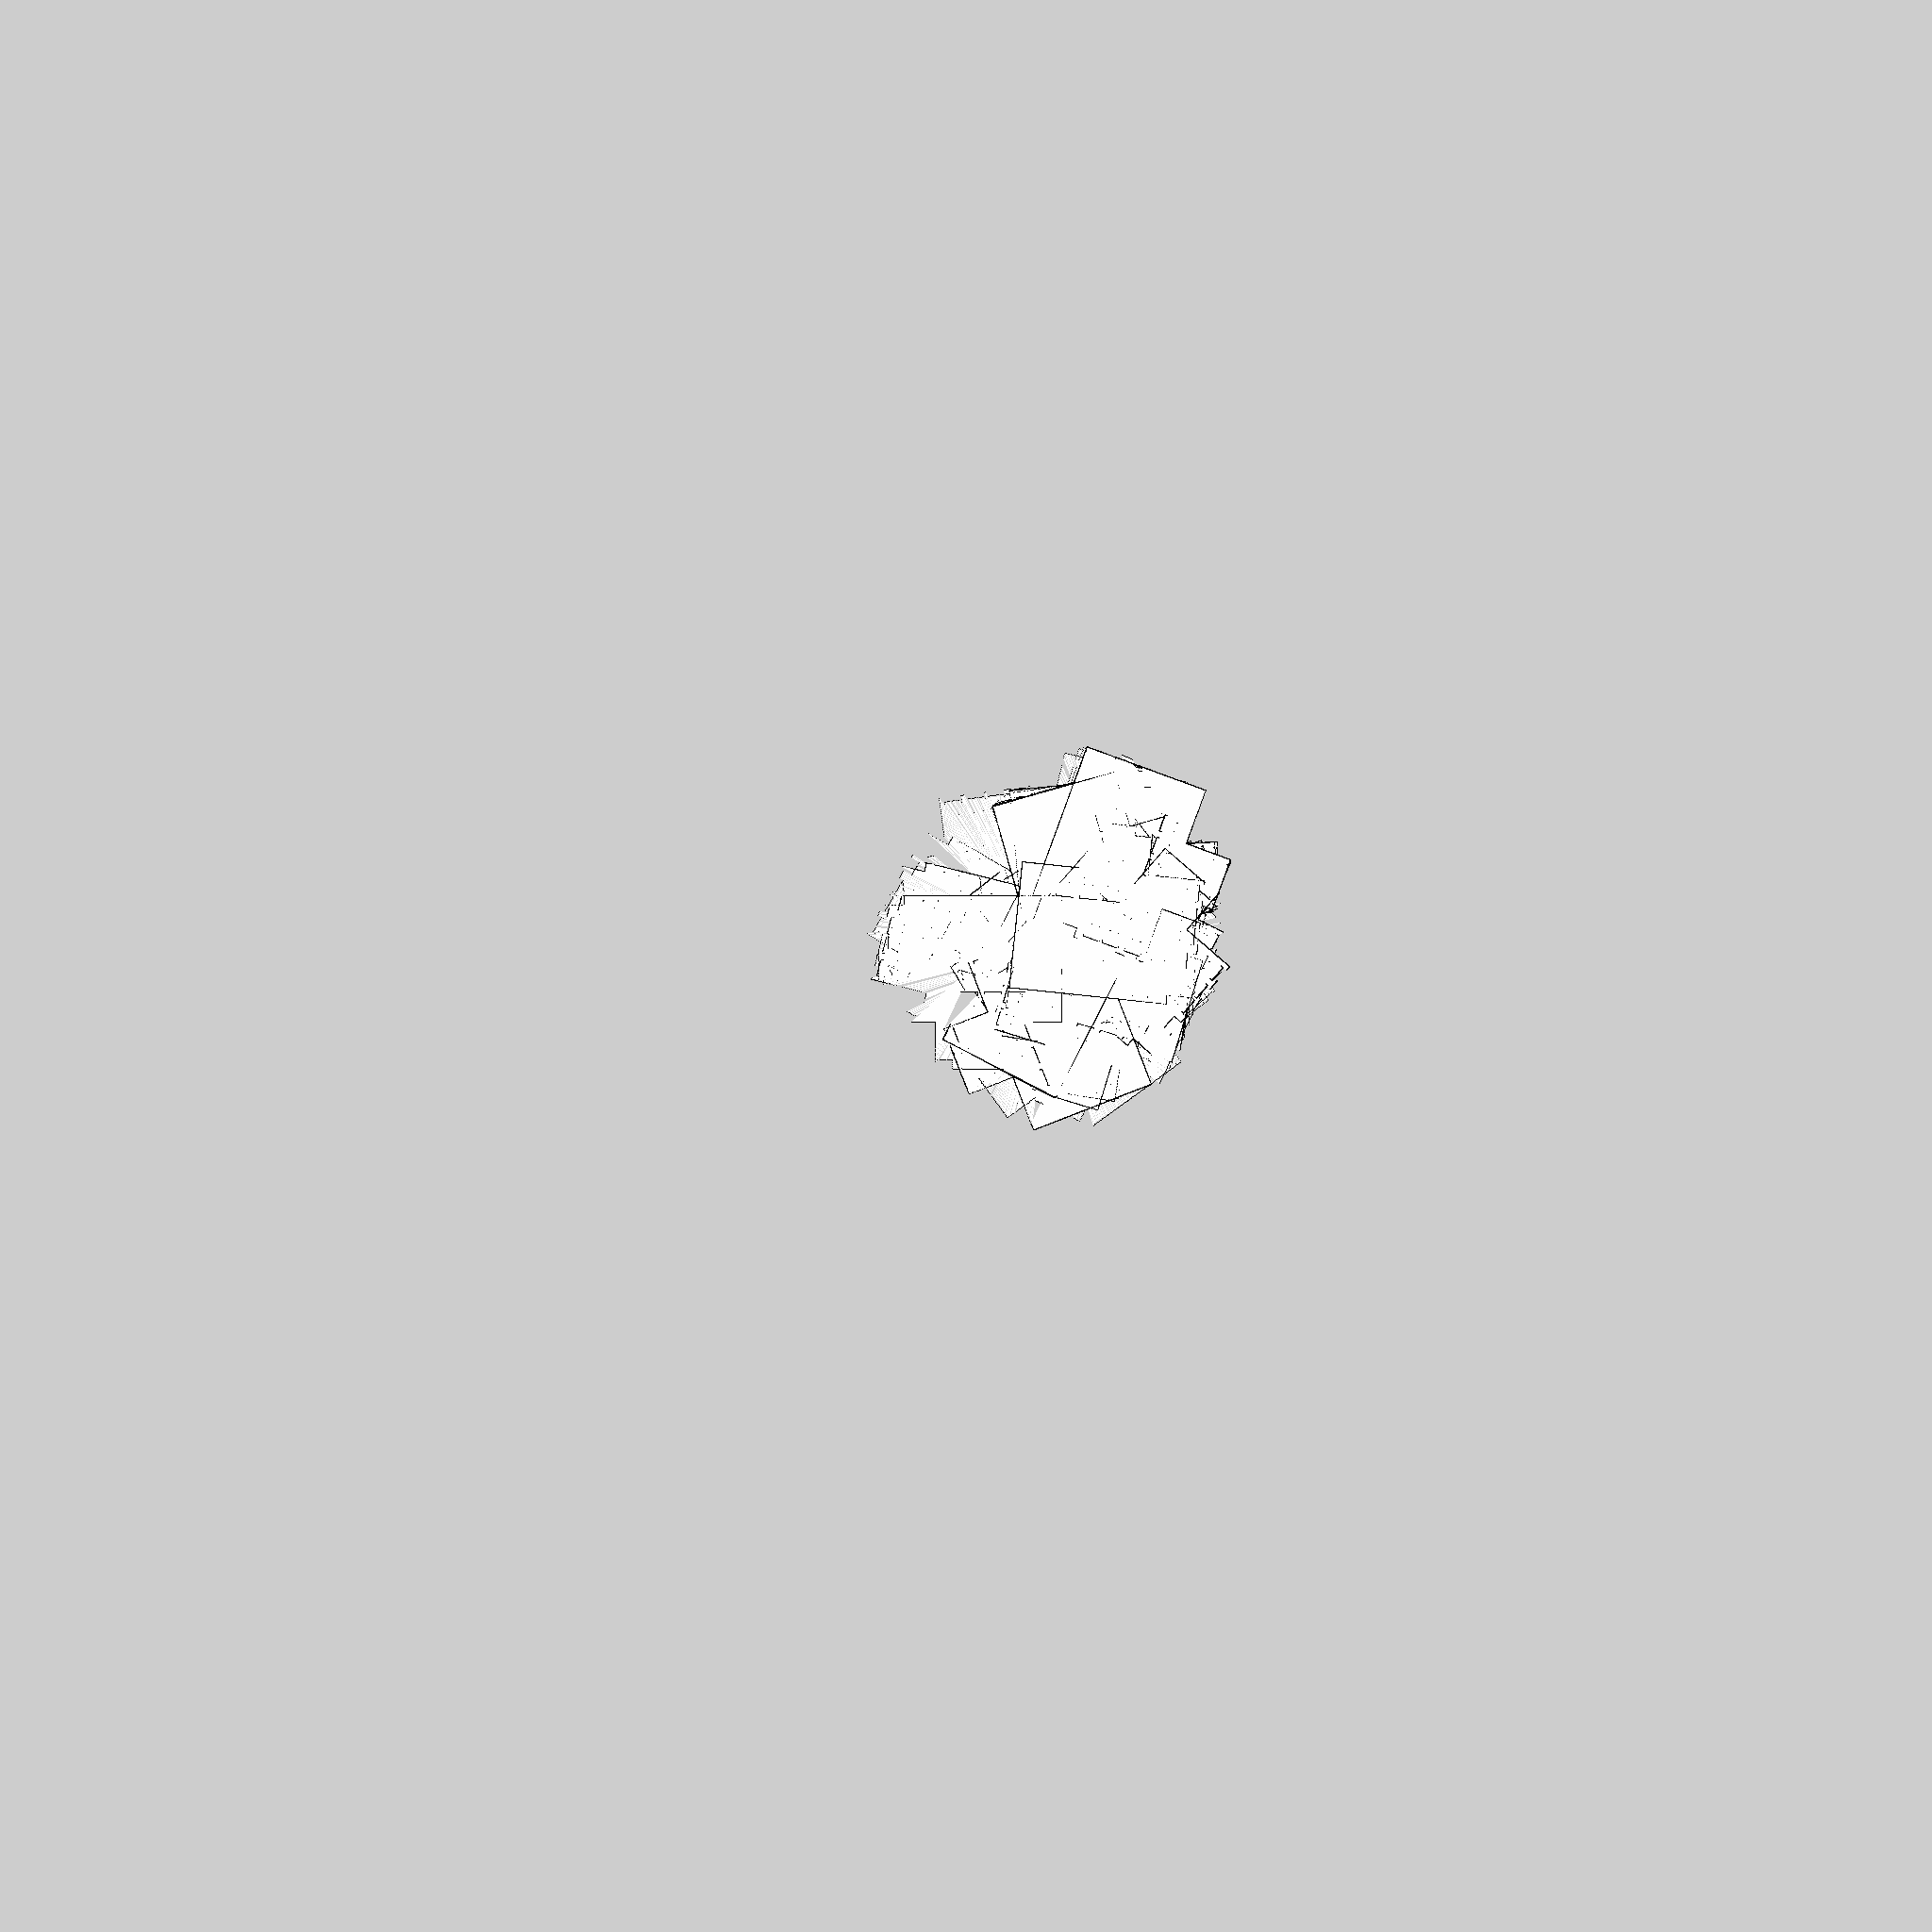
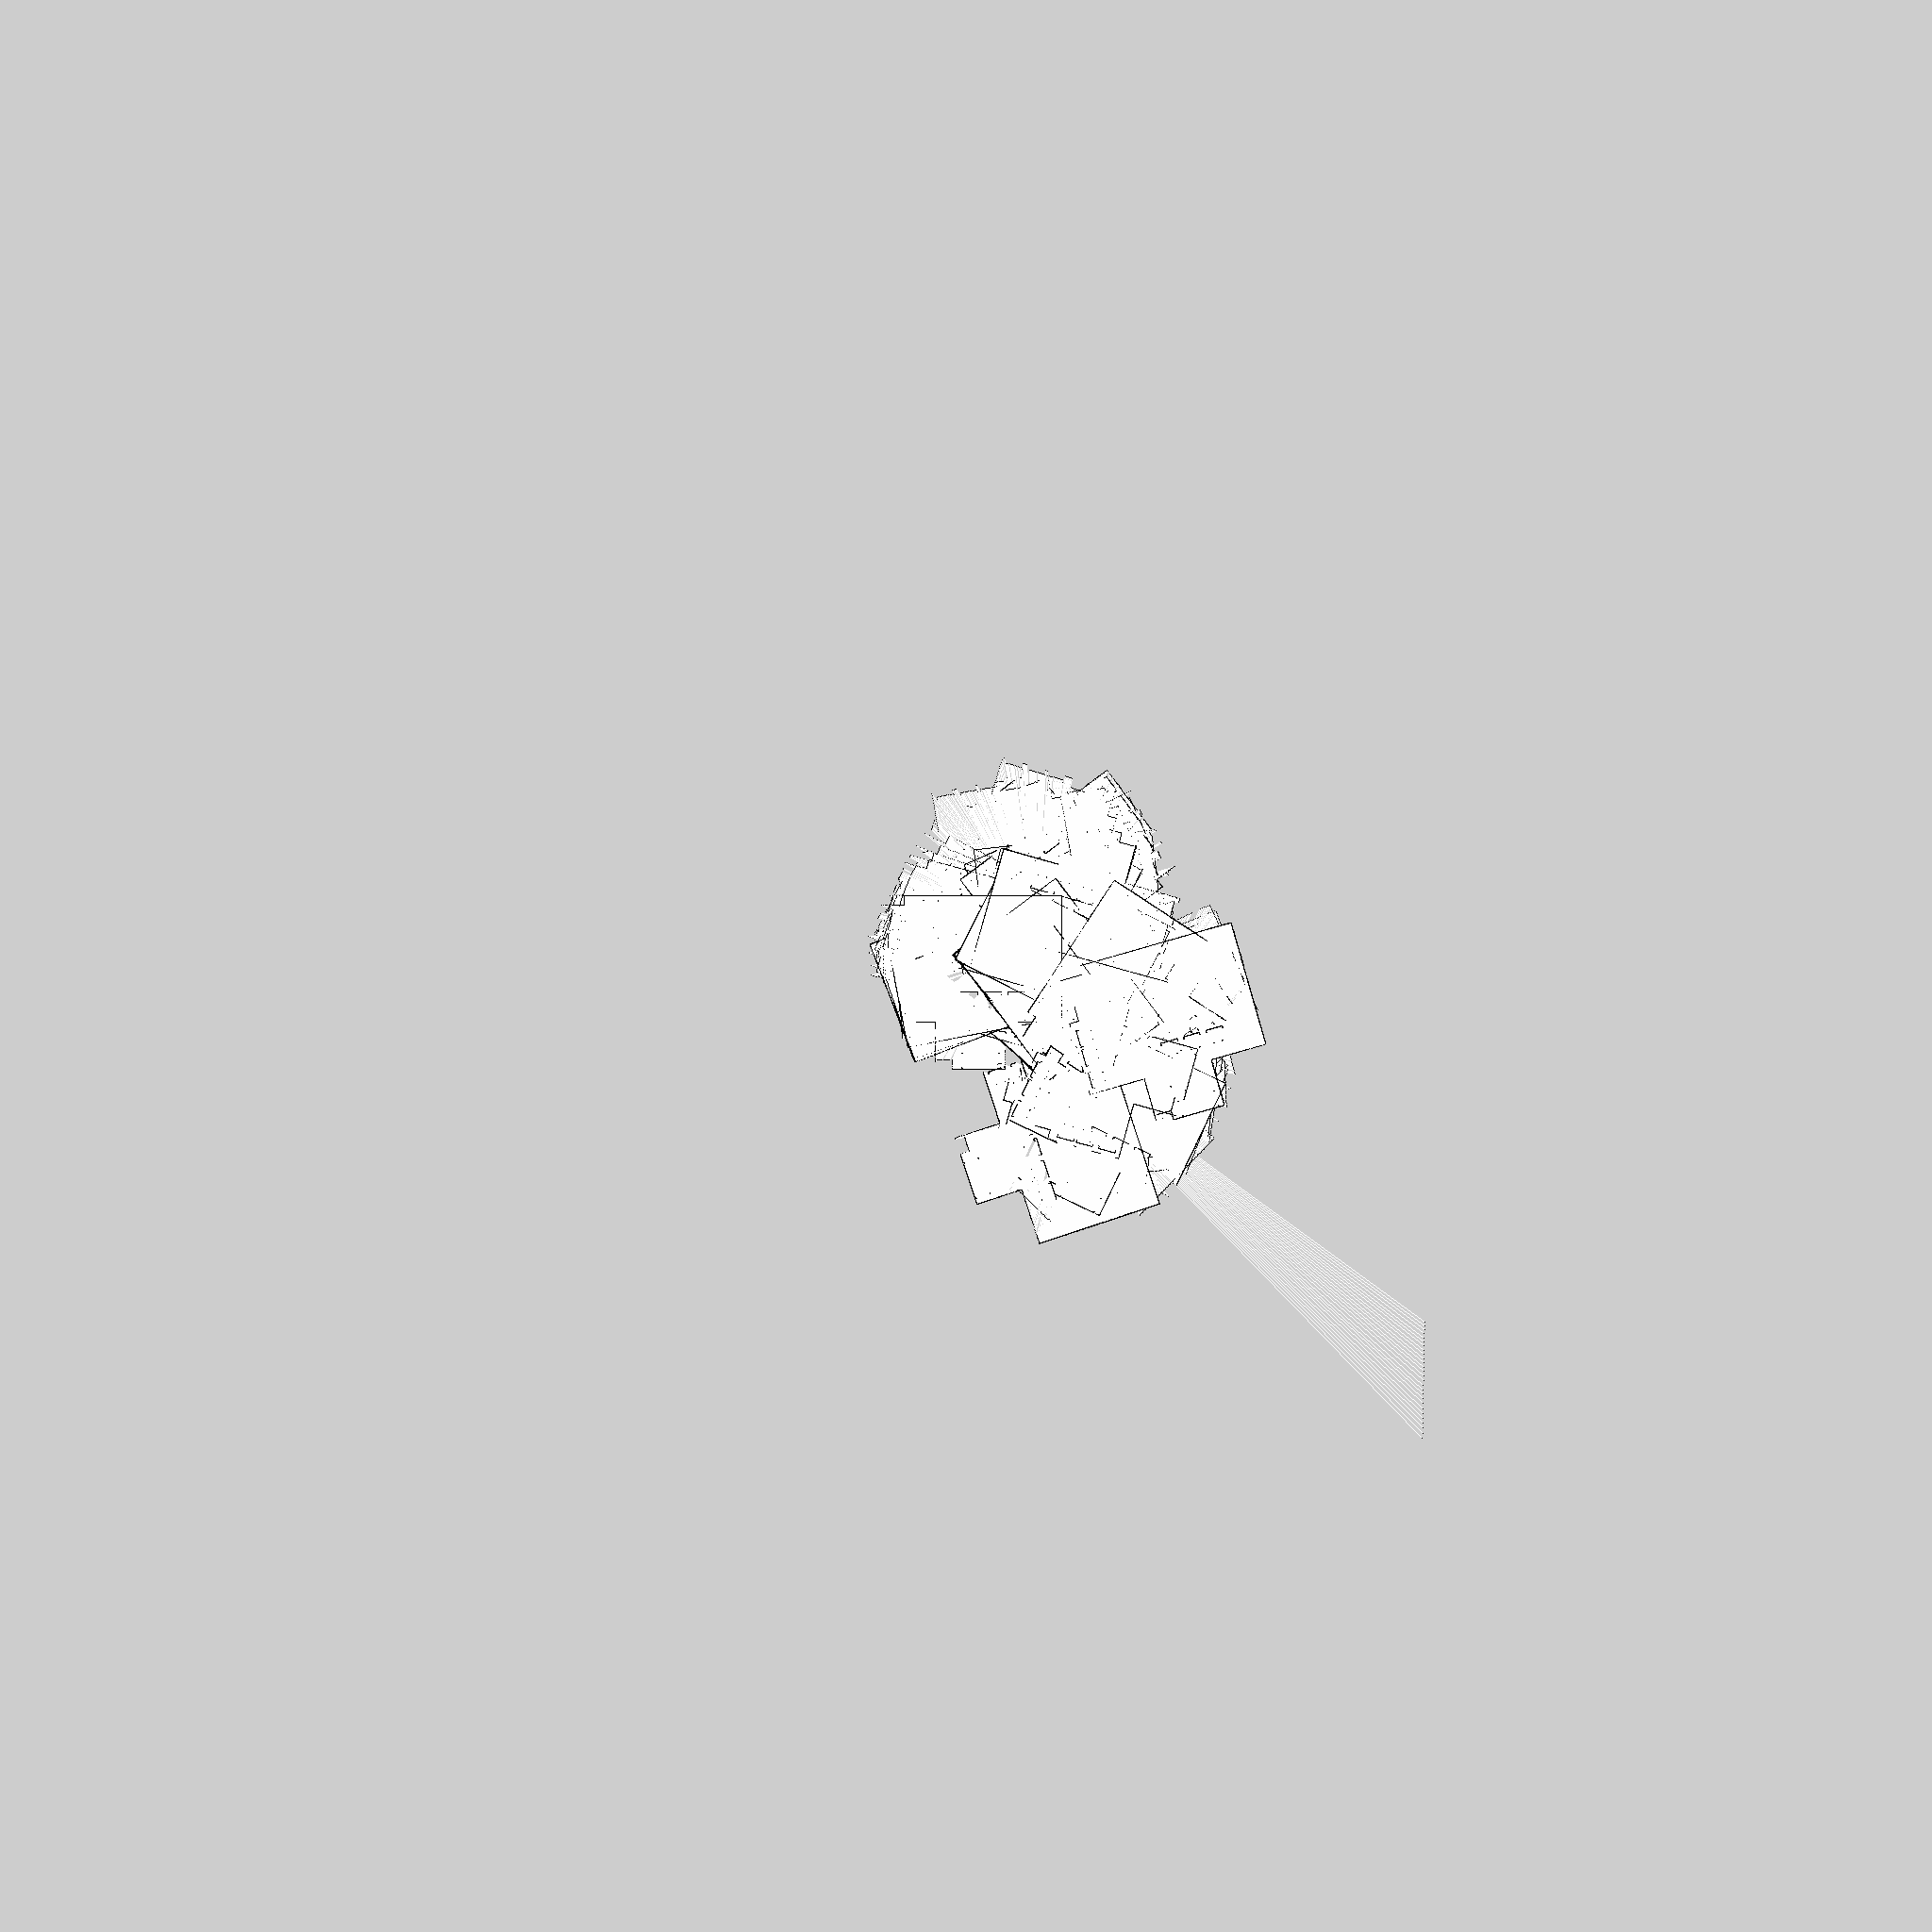
init part 2

Changed region(s): [[0.4375, 0.375, 0.75, 0.7188]]

diff --git a/scripts/check_mapping_topics.py b/scripts/check_mapping_topics.py
@@ -33,8 +33,8 @@ def fail(message):
 def main():
     rospy.init_node("check_mapping_topics", anonymous=True)
     ok = True
-
     published = dict(rospy.get_published_topics(namespace="/"))
+
     for topic, expected_type in EXPECTED_TYPES.items():
         actual_type = published.get(topic)
         accepted_types = COMPATIBLE_TYPES.get(topic, {expected_type})
@@ -92,14 +92,14 @@ def main():
         master = rosgraph.Master(rospy.get_name())
         publishers, _, _ = master.getSystemState()
         nodes = {node for _, topic_nodes in publishers for node in topic_nodes}
-        forbidden = sorted(node for node in nodes if "gmapping" in node or "hector_mapping" in node)
+        forbidden = sorted(node for node in nodes if "gmapping" in node or "hector_mapping" in node or node == "/amcl")
         if forbidden:
-            ok = fail("SLAM online detectado; encerre antes de gravar: %s" % ", ".join(forbidden)) and ok
+            ok = fail("SLAM/localizacao online detectado; encerre antes de gravar: %s" % ", ".join(forbidden)) and ok
     except rosgraph.MasterException as error:
         ok = fail("nao foi possivel consultar o ROS master: %s" % error) and ok
 
     if ok:
-        rospy.loginfo("Ambiente pronto para gravacao do mapeamento.")
+        rospy.loginfo("Ambiente pronto para gravacao.")
         return 0
     rospy.logerr("Ambiente NAO esta pronto. Corrija os itens acima antes de gravar.")
     return 1

diff --git a/README.md b/README.md
@@ -75,3 +75,54 @@ Por padrão são criados `maps/gmapping/lar_gmapping.pgm`, `lar_gmapping.yaml`,
 
 Ambos reproduzem integralmente a mesma bag com `/use_sim_time`, resolução de
 `0,05 m`, e salvam por `/dynamic_map` depois do replay. Não rode os dois juntos.
+
+## 5. Gravar uma trajetória exclusiva para localização
+
+Inicie novamente o Gazebo e o steering como na seção 2. Em outro terminal,
+grave uma nova trajetória:
+
+```bash
+rosrun localiza_o_robotica_at3 record_localization.sh
+```
+
+A saída padrão é `bags/lar_localization.bag`. O script não permite usar o
+caminho de `lar_mapping.bag` e também não sobrescreve uma gravação existente.
+Essa bag é criada sem SLAM e contém laser, TF, odometria e ground truth.
+
+Ao dirigir, comece na pose padrão do Husky, faça uma trajetória representativa
+e pressione `Ctrl+C` quando terminar. Depois feche Gazebo e qualquer `roscore`.
+
+## 6. Localização AMCL com o mapa Hector
+
+Execute:
+
+```bash
+rosrun localiza_o_robotica_at3 localize_hector_map.sh
+```
+
+O comando executa, nesta ordem:
+
+1. carrega `maps/hector/lar_hector.yaml`;
+2. inicia AMCL na pose `(0, 0, 0)`;
+3. inicia a gravação do resultado;
+4. reproduz integralmente `bags/lar_localization.bag`.
+
+O resultado fica em `results/localization/amcl_hector.bag`.
+
+## 7. Localização AMCL com o mapa GMapping
+
+Use exatamente a mesma bag de entrada:
+
+```bash
+rosrun localiza_o_robotica_at3 localize_gmapping_map.sh
+```
+
+O mapa carregado será `maps/gmapping/lar_gmapping.yaml` e o resultado ficará em
+`results/localization/amcl_gmapping.bag`.
+
+As bags de resultado não são sobrescritas.
+
+Com a posição inicial padrão do simulador e dos mapas gerados neste projeto,
+use `(0, 0, 0)`. Os resultados preservam `/amcl_pose`, `/particlecloud`, TF,
+odometria e `/gazebo_ground_truth/odom`, permitindo calcular posteriormente
+erro de posição, RMSE, erro angular e estabilidade sem repetir o AMCL.